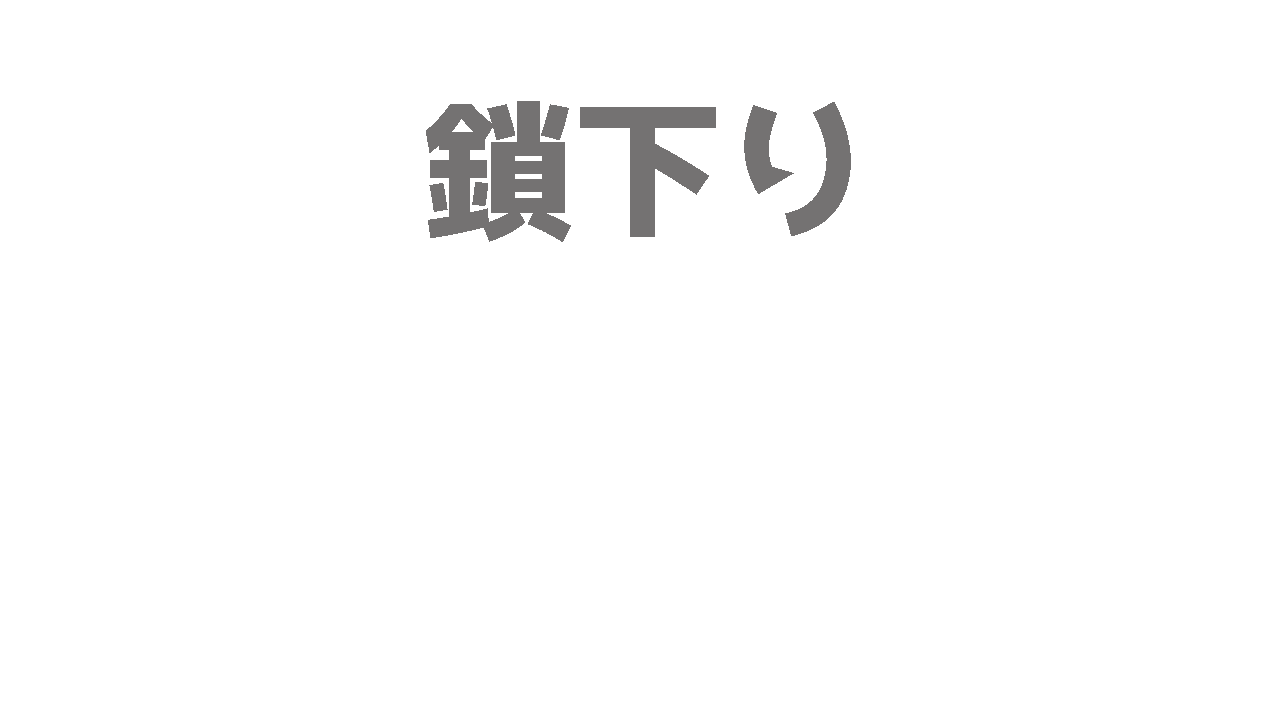
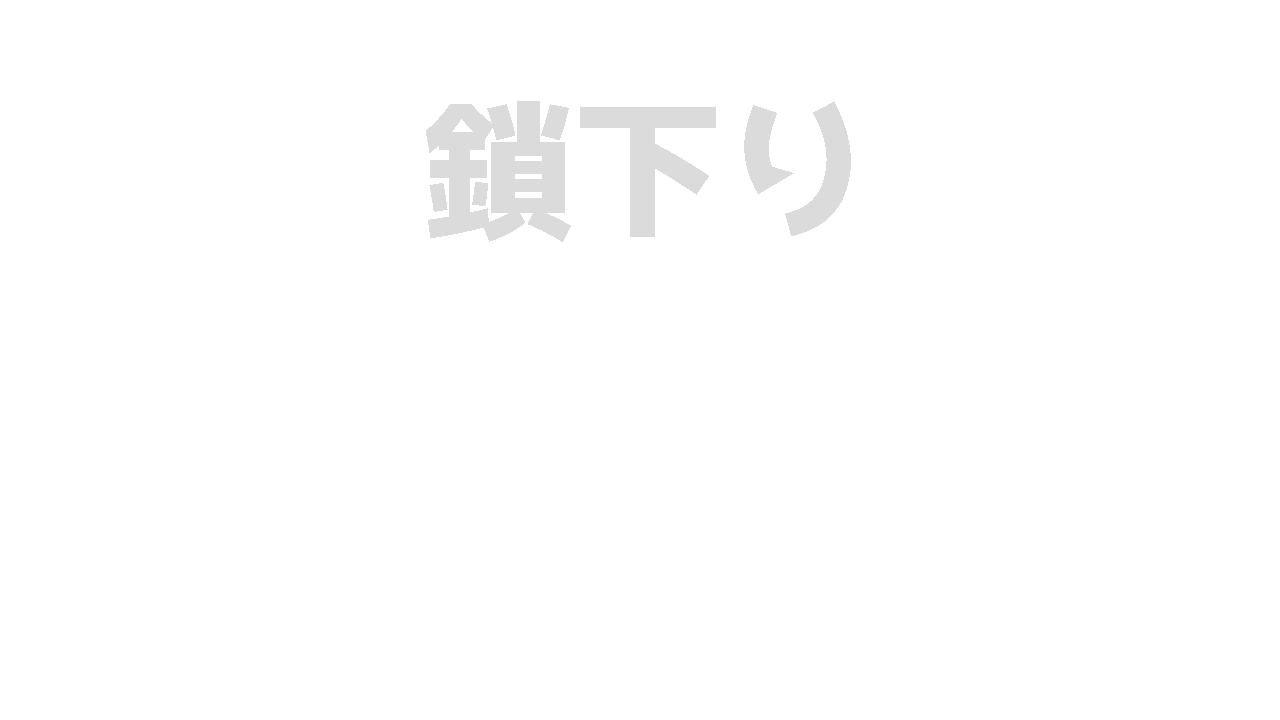
スペースボタン表記追加

Changed region(s): [[0.3125, 0.1222, 0.6875, 0.3361]]

diff --git a/DirectXGame/TitleScene.cpp b/DirectXGame/TitleScene.cpp
@@ -16,7 +16,7 @@ void TitleScene::Initialize() {
 	titleHandle_ = TextureManager::Load("title.png");
 	textureTitle_ = Sprite::Create(titleHandle_, {0.0f, 0.0f}, {1.0f, 1.0f, 1.0f, 1.0f}, {0.0f, 0.0f});
 
-	uint32_t pushSpaceHandle_ = TextureManager::Load("title.png");
+	uint32_t pushSpaceHandle_ = TextureManager::Load("push_to_space.png");
 	texturePushSpace_ = Sprite::Create(pushSpaceHandle_, {0.0f, 0.0f}, {1.0f, 1.0f, 1.0f, 1.0f}, {0.0f, 0.0f});
 
 	// フェードの生成
@@ -60,6 +60,12 @@ void TitleScene::Update() {
 	}
 	if (fadeTimer_ <= 0) {
 		isSceneEnd_ = true;
+	}
+
+	//テクスチャ点滅用
+	textureTime++;
+	if (textureTime > 120) {
+		textureTime = 0;
 	}
 
 	//背景の更新
@@ -112,8 +118,9 @@ void TitleScene::Draw() {
 
 	//タイトルの画像
 	textureTitle_->Draw();
-	
-	texturePushSpace_->Draw();
+	if (textureTime > 60 && textureTime < 120) {
+		texturePushSpace_->Draw();
+	}
 
 	// フェードの描画
 	fade_->Draw();

diff --git a/DirectXGame/TitleScene.h b/DirectXGame/TitleScene.h
@@ -66,6 +66,8 @@ private: // メンバ変数
 	//スペースボタンを押す
 	Sprite* texturePushSpace_;
 
+	int textureTime = 0;
+
 	// 3Dモデル
 	std::unique_ptr<Model> backGroundModel_ = nullptr;
 	// 背景
